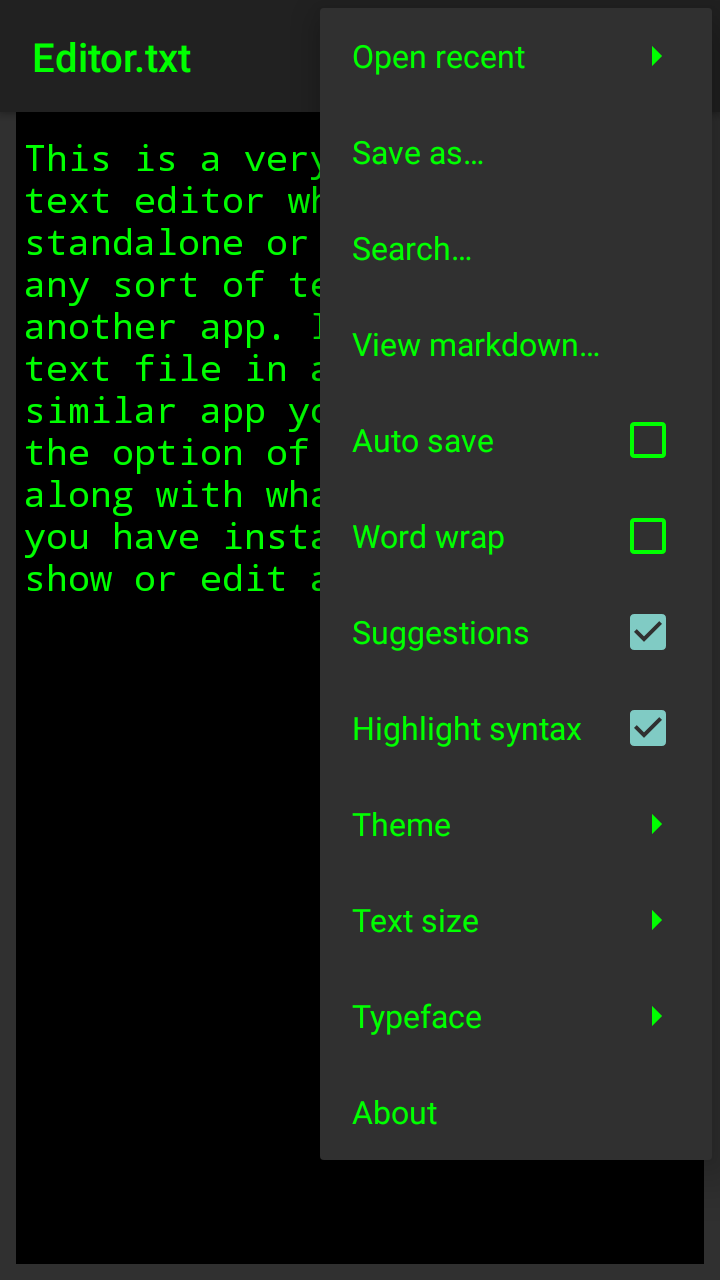
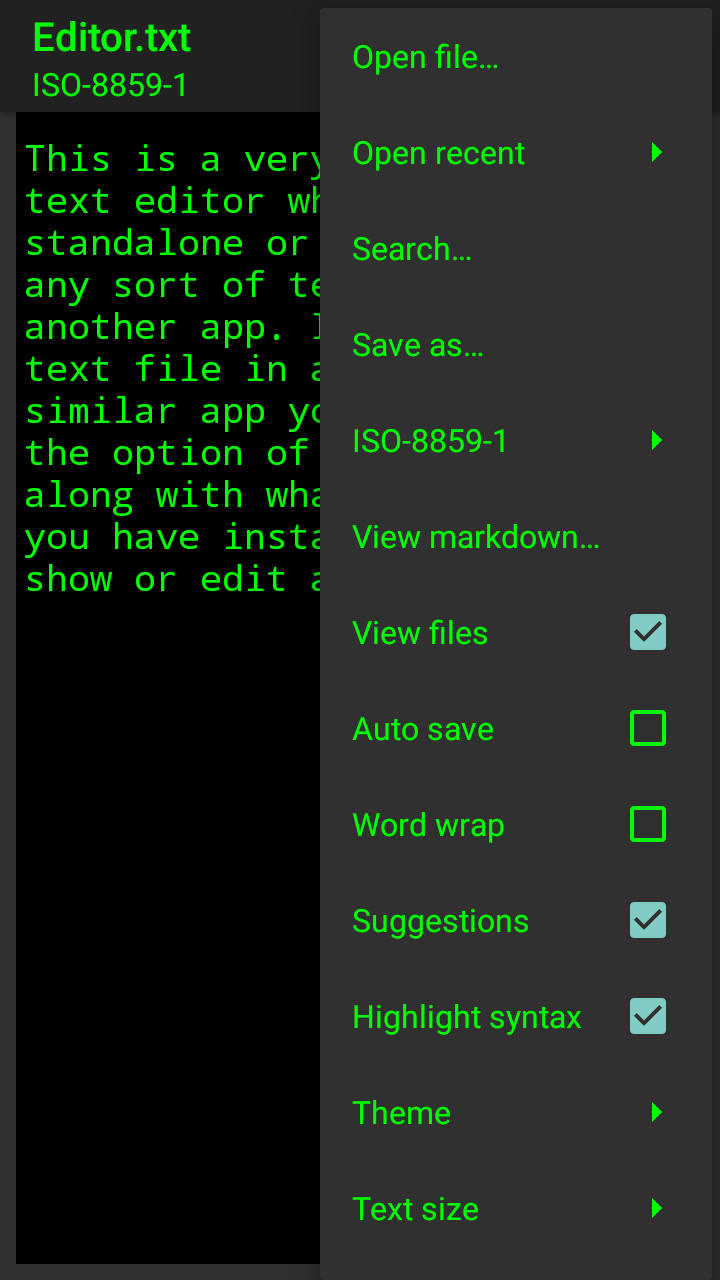
Update fastlane screenshots

diff --git a/Charset.md b/Charset.md
@@ -17,9 +17,10 @@ detection algorithm something to work on it may not get it right.
 
 ## Saving
 Files will be saved using the current character set. To change it, use
-the **Charset** item in the menu, which shows the current set. If you
-add accented characters or symbols to the text, make sure to check the
-current set before you save it.
+the **Charset** item in the menu, which shows the current set.
+
+**Caution** &ndash; If you add accented characters or symbols to the
+text, make sure to check the current character set before you save it.
 
 ## Mode line
 The character set may be set to UFT-8 by using a mode line in the text.
